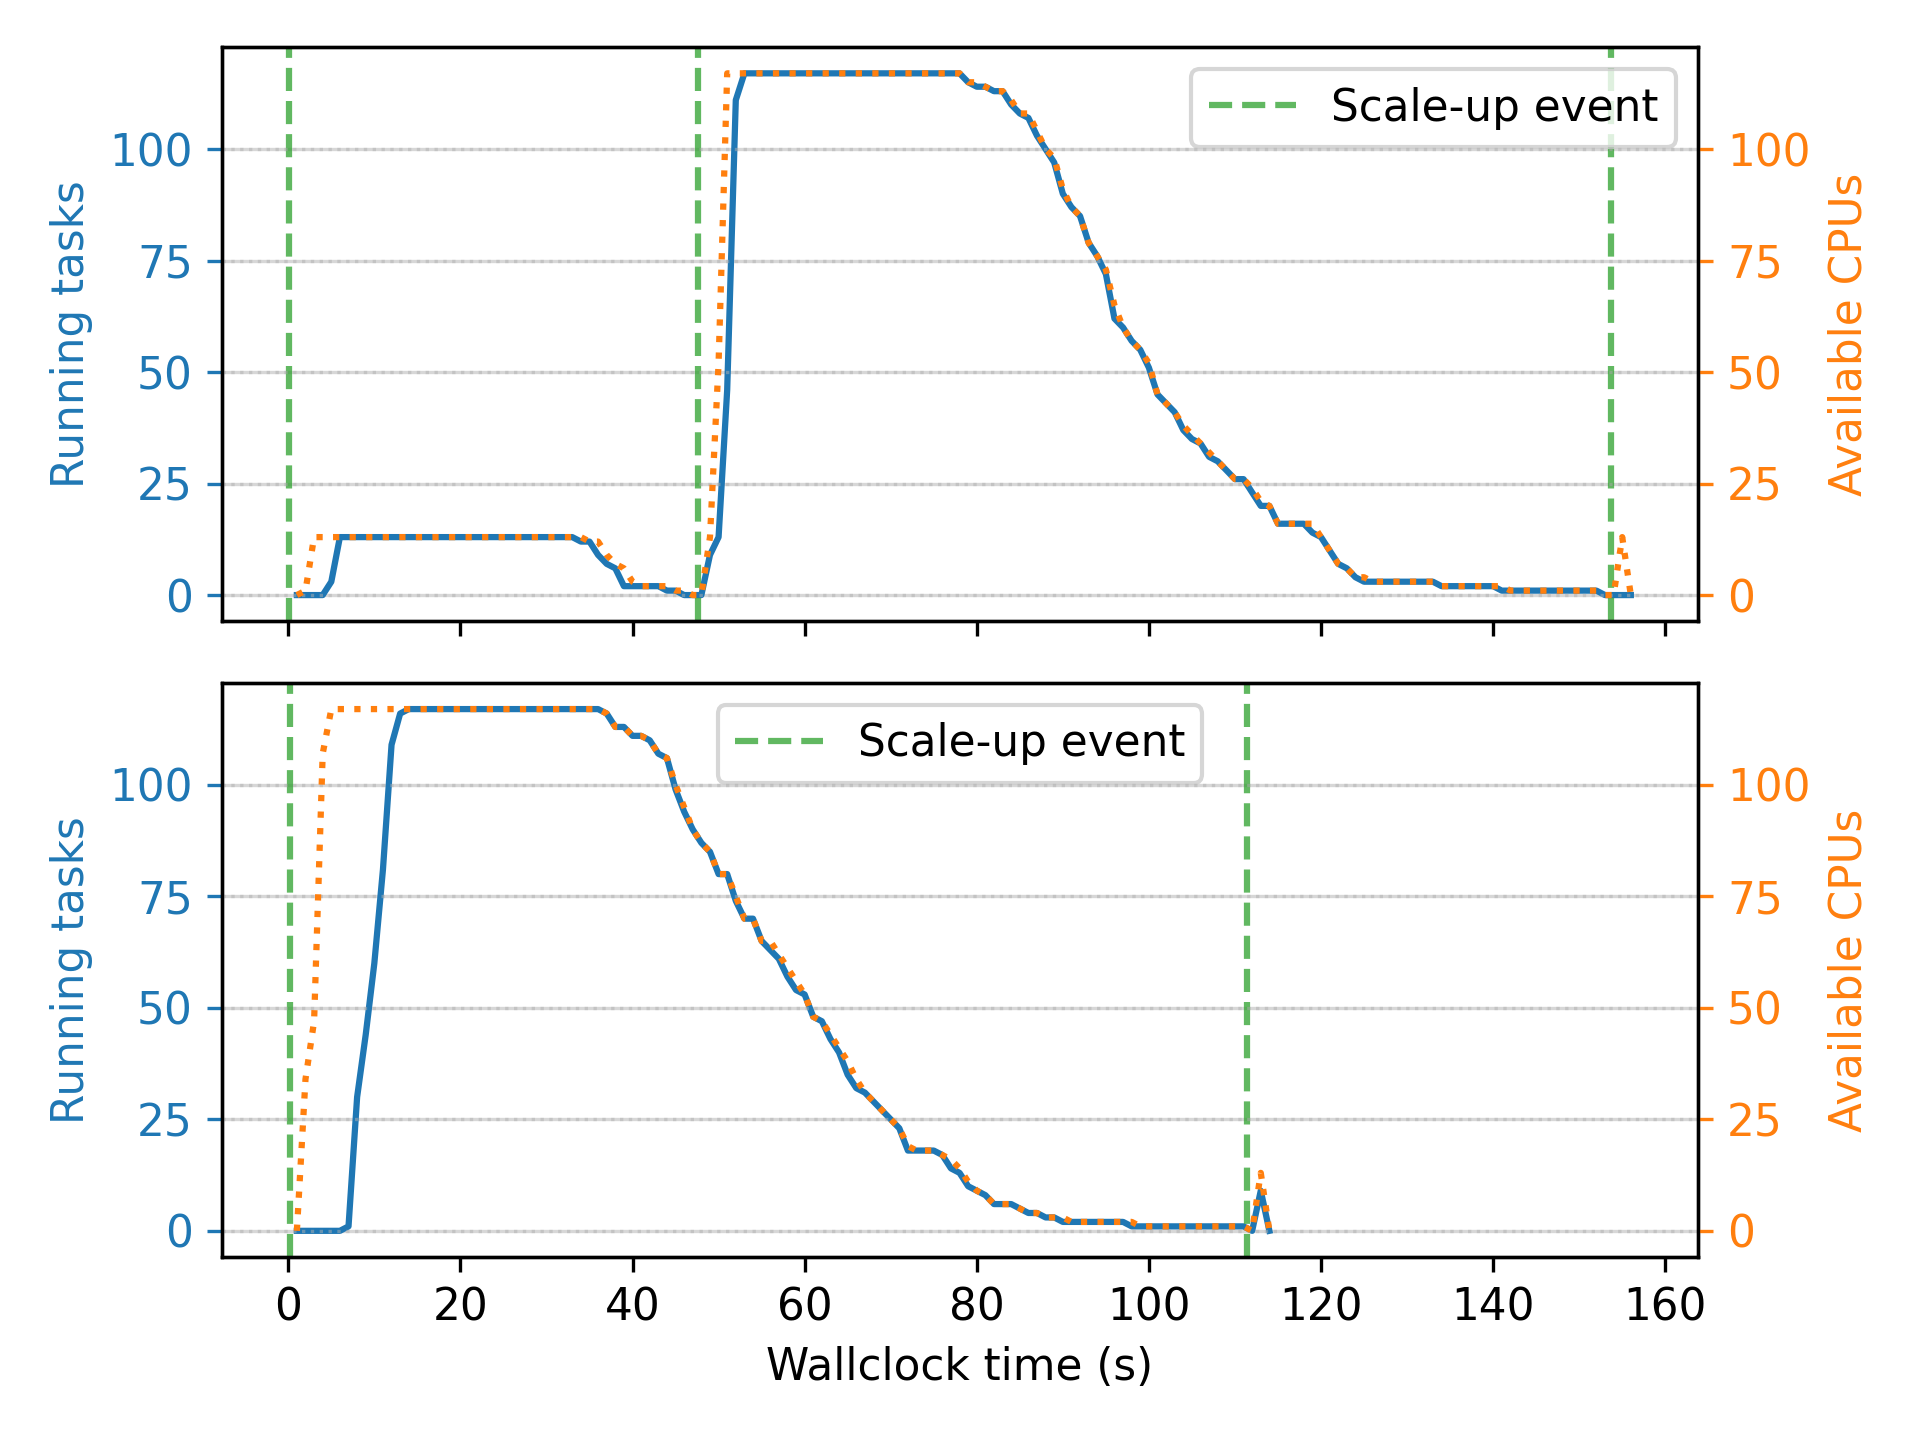
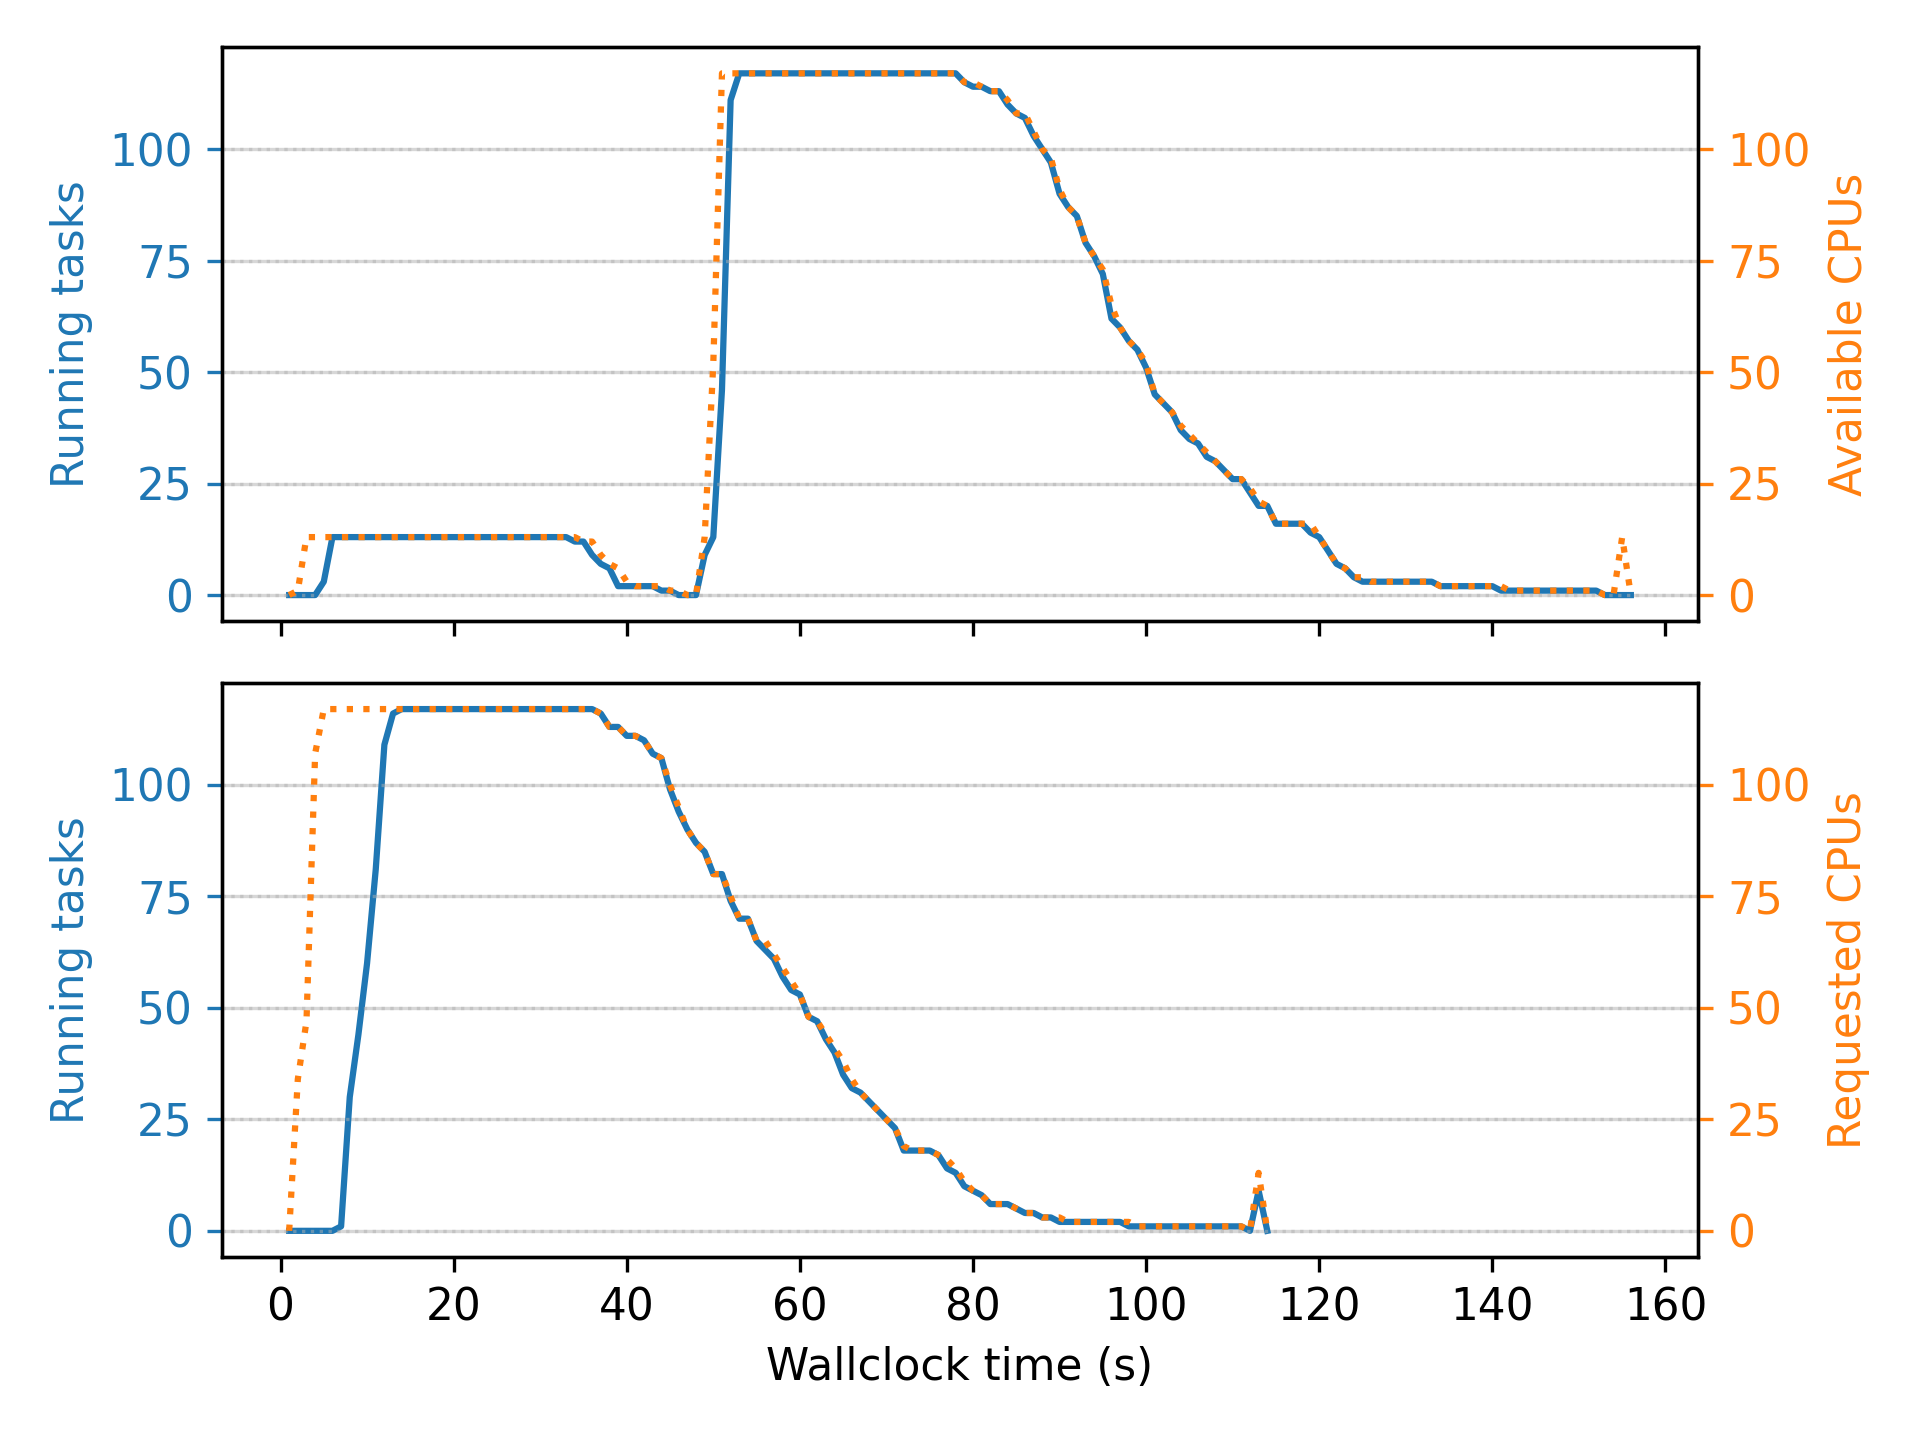
Add plots

diff --git a/plots/ray_compare.py b/plots/ray_compare.py
@@ -19,6 +19,7 @@ logs1 = ['geospatial/ray_/naive_quarter_zeroworkers.txt']
 logs2 = ['geospatial/ray_/co_quarter_zeroworkers.txt']
 
 INITIAL_CPUS = 4
+WORKER_NODE_CPUS = 16
 
 
 def parse_entry(line):
@@ -38,17 +39,17 @@ def parse_entry(line):
 def parse_ray_scheduler_entry(line):
     m = re.findall(r'\(scheduler\s\+\d+s\)', line)
     if m:
-        sub = re.findall(r'Resized\sto\s\d+\sCPUs', line)
-        if sub:
-            time_stamp = m.pop()
-            matches = re.findall(r'\d+', time_stamp)
-            t = int(matches[0]), int(matches[1])
+        # sub = re.findall(r'Resized\sto\s\d+\sCPUs', line)
+        # if sub:
+        #     time_stamp = m.pop()
+        #     matches = re.findall(r'\d+', time_stamp)
+        #     t = int(matches[0]), int(matches[1])
 
-            log = sub.pop()
-            matches = re.findall(r'\d+', log)
-            cpus = int(matches.pop())
+        #     log = sub.pop()
+        #     matches = re.findall(r'\d+', log)
+        #     cpus = int(matches.pop())
 
-            return 'resized', t, cpus
+        #     return 'resized', t, cpus
         
         sub = re.findall(r'Adding\s\d+\snodes\sof\stype', line)
         if sub:
@@ -60,23 +61,23 @@ def parse_ray_scheduler_entry(line):
             matches = re.findall(r'\d+', log)
             nodes = int(matches.pop())
 
-            return 'scale_up', t, nodes
+            return 'scale_up', t, nodes * WORKER_NODE_CPUS
 
     
     m = re.findall(r'\(scheduler\s\+\d+m\d+s\)', line)
     if m:
-        sub = re.findall(r'Resized\sto\s\d+\sCPUs', line)
-        if sub:
-            time_stamp = m.pop()
-            matches = re.findall(r'\d+', time_stamp)
-            min, sec = int(matches[0]), int(matches[1])
-            t = (min * 60) + sec
+        # sub = re.findall(r'Resized\sto\s\d+\sCPUs', line)
+        # if sub:
+        #     time_stamp = m.pop()
+        #     matches = re.findall(r'\d+', time_stamp)
+        #     min, sec = int(matches[0]), int(matches[1])
+        #     t = (min * 60) + sec
 
-            log = sub.pop()
-            matches = re.findall(r'\d+', log)
-            cpus = int(matches.pop())
+        #     log = sub.pop()
+        #     matches = re.findall(r'\d+', log)
+        #     cpus = int(matches.pop())
 
-            return 'resized', t, cpus
+        #     return 'resized', t, cpus
         
         sub = re.findall(r'Adding\s\d+\snodes\sof\stype', line)
         if sub:
@@ -89,7 +90,7 @@ def parse_ray_scheduler_entry(line):
             matches = re.findall(r'\d+', log)
             nodes = int(matches.pop())
 
-            return 'scale_up', t, nodes
+            return 'scale_up', t, nodes * WORKER_NODE_CPUS
 
 
 def ray_parse_logs(logs):
@@ -143,15 +144,15 @@ def ray_parse_logs(logs):
 
     avail_cpus_X = np.array([INITIAL_CPUS] * len(times_X), dtype=np.int32)
     for evt, t, val in ray_events:
-        if evt == 'resized':
+        if evt == 'scale_up':
             for i in range(len(times_X)):
                 if i >= t:
                     avail_cpus_X[i] += val
 
     scaleup_events = []
-    for evt, t, val in ray_events:
-        if evt == 'scale_up':
-            scaleup_events.append(t)
+    # for evt, t, val in ray_events:
+    #     if evt == 'scale_up':
+    #         scaleup_events.append(t)
     
     result = SimpleNamespace()
     result.t0 = t0
@@ -223,7 +224,7 @@ if __name__ == '__main__':
     ax2b = ax2a.twinx()
 
     ax2b.plot(co_res.times_X, co_res.avail_cpus_X, c='tab:orange', ls='--')
-    ax2b.set_ylabel('Available CPUs', c='tab:orange')
+    ax2b.set_ylabel('Requested CPUs', c='tab:orange')
     ax2b.tick_params(axis='y', colors='tab:orange')
 
     for i, scaleup_event in enumerate(co_res.scaleup_events):

diff --git a/plots/lithops_lambda_compare.py b/plots/lithops_lambda_compare.py
@@ -181,9 +181,9 @@ def lithops_parse_logs(func_logs, stats_logs, orch_logs=None):
         avail_cpus_X[i] = running_tasks
     
     scaleup_events = []
-    for stats_log in stats_logs:
-        scaleup_t = min(t['host_submit_tstamp'] for t in stats_log)
-        scaleup_events.append(scaleup_t - t0)
+    # for stats_log in stats_logs:
+    #     scaleup_t = min(t['host_submit_tstamp'] for t in stats_log)
+    #     scaleup_events.append(scaleup_t - t0)
     
     result = SimpleNamespace()
     result.t0 = t0
@@ -278,7 +278,7 @@ if __name__ == '__main__':
     ax2b = ax2a.twinx()
 
     ax2b.plot(co_res.times_X, co_res.avail_cpus_X, c='tab:orange', ls=':')
-    ax2b.set_ylabel('Available CPUs', c='tab:orange')
+    ax2b.set_ylabel('Requested CPUs', c='tab:orange')
     ax2b.tick_params(axis='y', colors='tab:orange')
 
     for i, scaleup_event in enumerate(co_res.scaleup_events):

diff --git a/plots/lithops_ec2_compare.py b/plots/lithops_ec2_compare.py
@@ -121,9 +121,9 @@ def lithops_parse_logs(func_logs, orch_logs):
                     avail_cpus_X[i] += val
 
     scaleup_events = []
-    for evt, t, val in lithops_events:
-        if evt == 'scale_up':
-            scaleup_events.append(t)
+    # for evt, t, val in lithops_events:
+    #     if evt == 'scale_up':
+    #         scaleup_events.append(t)
     
     result = SimpleNamespace()
     result.t0 = t0
@@ -218,7 +218,7 @@ if __name__ == '__main__':
     ax2b = ax2a.twinx()
 
     ax2b.plot(co_res.times_X, co_res.avail_cpus_X, c='tab:orange', ls=':')
-    ax2b.set_ylabel('Available CPUs', c='tab:orange')
+    ax2b.set_ylabel('Requested CPUs', c='tab:orange')
     ax2b.tick_params(axis='y', colors='tab:orange')
 
     for i, scaleup_event in enumerate(co_res.scaleup_events):
